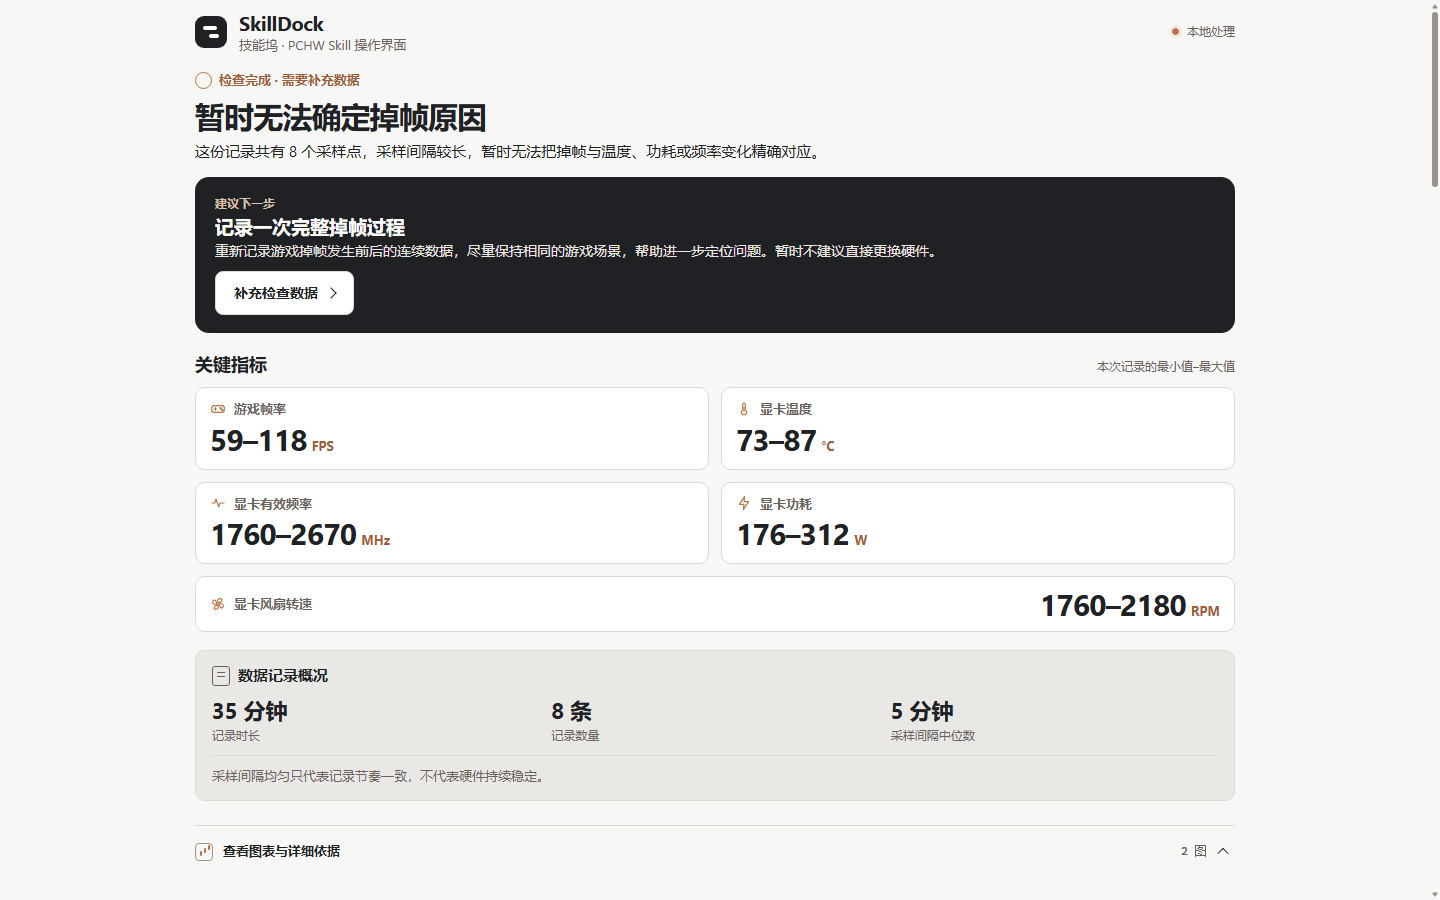
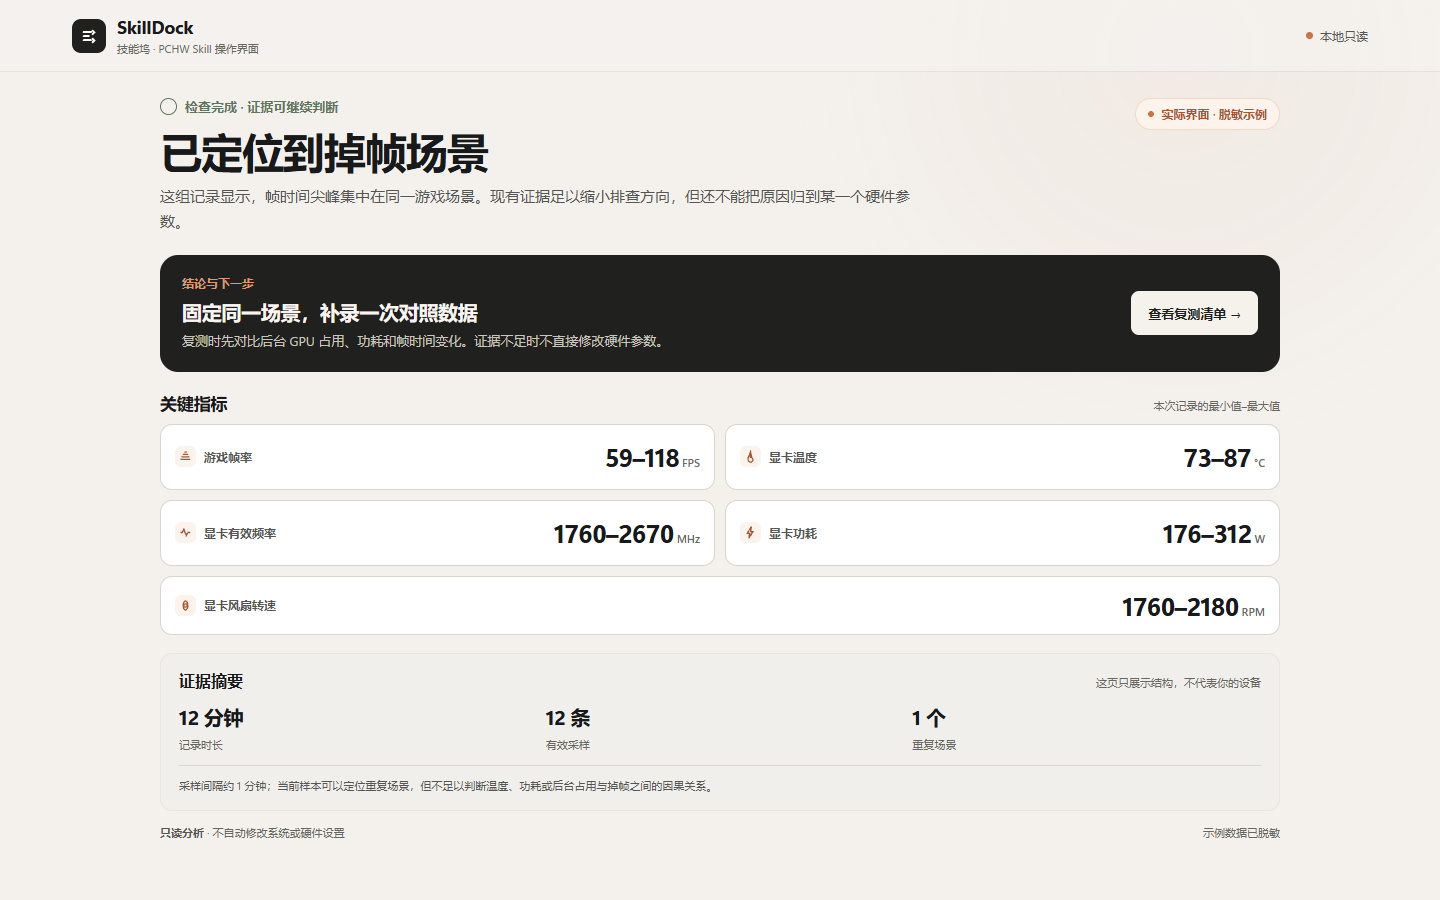
feat(site): replace hero result example

diff --git a/docs/skill-evolution/index.html b/docs/skill-evolution/index.html
@@ -8904,6 +8904,11 @@
       border-radius: 8px;
     }
 
+    #dse-root .dse-hero-preview-screen picture {
+      display: block;
+      width: 100%;
+    }
+
     #dse-root .dse-hero-preview-screen img {
       display: block;
       width: 100%;
@@ -9163,7 +9168,7 @@
 
       #dse-root .dse-preview-caption::before {
         color: #c7cdd2;
-        content: "SkillDock 结果页";
+        content: "SkillDock 结果页 · 脱敏示例";
       }
 
       #dse-root .dse-preview-evidence {
@@ -10106,12 +10111,15 @@
         <span class="dse-hero-orbit inner" aria-hidden="true"></span>
         <figcaption class="dse-preview-caption">
           <span id="dse-preview-title">SkillDock · 当前对话中的本地交互面板</span>
-          <span>真实结果页</span>
+          <span>实际界面 · 脱敏示例</span>
         </figcaption>
         <div class="dse-hero-preview-screen">
-          <img src="assets/pchw-result-desktop.png"
-            width="1440" height="900" loading="eager" decoding="async"
-            alt="SkillDock 对脱敏 GPU 掉帧记录给出暂时无法确定原因和下一步建议">
+          <picture>
+            <source media="(max-width: 760px)" srcset="assets/pchw-result-mobile.png">
+            <img src="assets/pchw-result-desktop.png"
+              width="1440" height="900" loading="eager" decoding="async"
+              alt="SkillDock 脱敏示例：已定位掉帧场景、建议固定场景复测并暂不直接修改硬件">
+          </picture>
         </div>
         <div class="dse-preview-evidence">
           <span><strong>结论 · 行动 · 指标 · 证据</strong> 四层信息保留在同一任务上下文中</span>
@@ -10289,7 +10297,7 @@
             <source media="(max-width: 760px)" srcset="assets/pchw-result-mobile.png">
             <img src="assets/pchw-result-desktop.png"
               width="1440" height="900" loading="eager" decoding="async"
-              alt="SkillDock 结果页：GPU 掉帧判断、下一步、关键指标和数据记录概况">
+              alt="SkillDock 脱敏示例结果：已定位掉帧场景、下一步复测和关键指标">
           </picture>
         </figure>
         <div class="dse-candidate-primary">
@@ -14338,6 +14346,7 @@
     })();
   </script>
 </main>
+
 <script src="./crt-backdrop.js" defer></script>
 <noscript>This page requires JavaScript to show the interactive content.</noscript>
 </body>

diff --git a/tools/templates/skill-evolution-home.html b/tools/templates/skill-evolution-home.html
@@ -8891,6 +8891,11 @@
       border-radius: 8px;
     }
 
+    #dse-root .dse-hero-preview-screen picture {
+      display: block;
+      width: 100%;
+    }
+
     #dse-root .dse-hero-preview-screen img {
       display: block;
       width: 100%;
@@ -9150,7 +9155,7 @@
 
       #dse-root .dse-preview-caption::before {
         color: #c7cdd2;
-        content: "SkillDock 结果页";
+        content: "SkillDock 结果页 · 脱敏示例";
       }
 
       #dse-root .dse-preview-evidence {
@@ -10093,12 +10098,15 @@
         <span class="dse-hero-orbit inner" aria-hidden="true"></span>
         <figcaption class="dse-preview-caption">
           <span id="dse-preview-title">SkillDock · 当前对话中的本地交互面板</span>
-          <span>真实结果页</span>
+          <span>实际界面 · 脱敏示例</span>
         </figcaption>
         <div class="dse-hero-preview-screen">
-          <img src="assets/pchw-result-desktop.png"
-            width="1440" height="900" loading="eager" decoding="async"
-            alt="SkillDock 对脱敏 GPU 掉帧记录给出暂时无法确定原因和下一步建议">
+          <picture>
+            <source media="(max-width: 760px)" srcset="assets/pchw-result-mobile.png">
+            <img src="assets/pchw-result-desktop.png"
+              width="1440" height="900" loading="eager" decoding="async"
+              alt="SkillDock 脱敏示例：已定位掉帧场景、建议固定场景复测并暂不直接修改硬件">
+          </picture>
         </div>
         <div class="dse-preview-evidence">
           <span><strong>结论 · 行动 · 指标 · 证据</strong> 四层信息保留在同一任务上下文中</span>
@@ -10276,7 +10284,7 @@
             <source media="(max-width: 760px)" srcset="assets/pchw-result-mobile.png">
             <img src="assets/pchw-result-desktop.png"
               width="1440" height="900" loading="eager" decoding="async"
-              alt="SkillDock 结果页：GPU 掉帧判断、下一步、关键指标和数据记录概况">
+              alt="SkillDock 脱敏示例结果：已定位掉帧场景、下一步复测和关键指标">
           </picture>
         </figure>
         <div class="dse-candidate-primary">

diff --git a/docs/skill-evolution/assets/pchw-screenshots.md b/docs/skill-evolution/assets/pchw-screenshots.md
@@ -7,10 +7,11 @@ interface used by the PCHW public pre-release.
[1 lines of base64/hex data omitted]
 - `pchw-permission-desktop.png`: one-time read-only permission card.
[1 lines of base64/hex data omitted]
-- `pchw-result-desktop.png`: redacted GPU frame-drop analysis result.
[1 lines of base64/hex data omitted]
-- `pchw-result-mobile.png`: mobile result layout.
[1 lines of base64/hex data omitted]
+- `pchw-result-desktop.png`: redacted example result that identifies a repeated
+  frame-drop scene and recommends one controlled follow-up recording.
[1 lines of base64/hex data omitted]
+- `pchw-result-mobile.png`: mobile layout of the same redacted example.
[1 lines of base64/hex data omitted]
 
-The visible case is limited to the redacted `gpu-stutter.csv` example. The
+The visible case is a redacted example, not a visitor's device result. The
 images do not include a user name, serial number, or absolute local file path.
